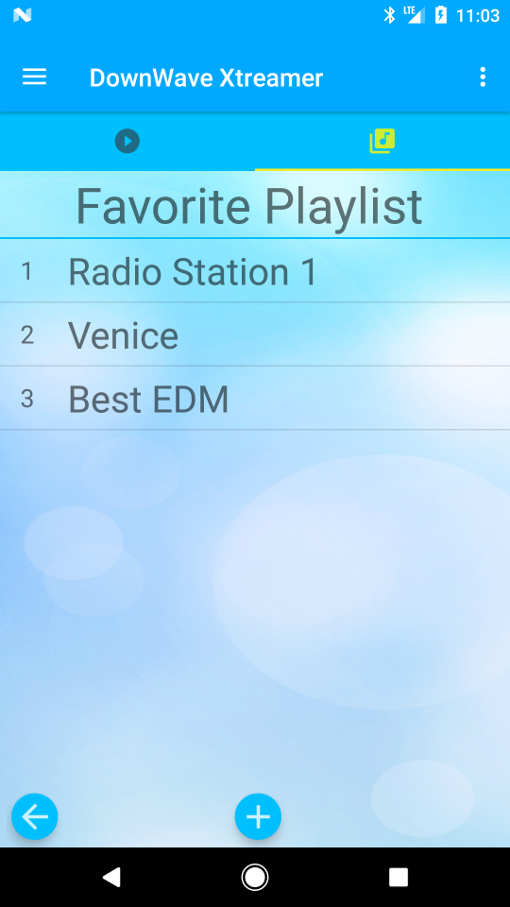
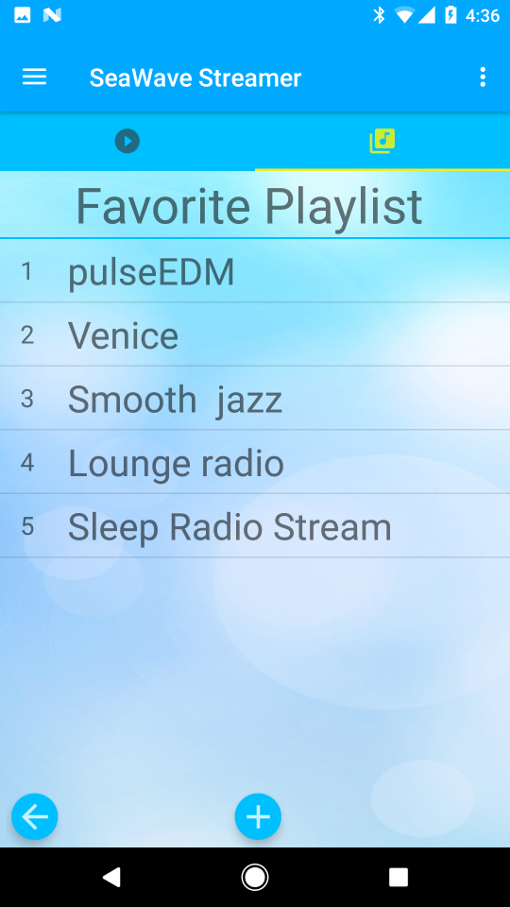
update screenshots

diff --git a/index.html b/index.html
@@ -84,7 +84,7 @@
 
                     <!--Header Extras-->
                     
-                    <div class='googleplaystorebadge'align="middle" ><a href="https://play.google.com/store/apps/details?id=cs499app.cs499mobileapp&hl=en" target="_blank"><img src="images/phoneOverlay/google-play-badge.png" width=220</></a> </div>
+                    <div class='googleplaystorebadge'align="middle" ><a href="https://play.google.com/store/apps/details?id=cs499app.seawavestreamer" target="_blank"><img src="images/phoneOverlay/google-play-badge.png" width=220</></a> </div>
                     
                     
 
@@ -132,7 +132,7 @@
                                 <div class="tp-caption   tp-resizeme tp-svg-layer" id="slide-30-layer-3" data-x="['left','left','left','left']" data-hoffset="['0','0','0','0']" data-y="['top','top','top','top']" data-voffset="['60','60','60','60']" data-width="48" data-height="48" data-whitespace="nowrap" data-type="svg" data-svg_src="js/plugins/revolution/assets/images/ic_play_circle_filled_24px.svg" data-svg_idle="sc:transparent;sw:0;sda:0;sdo:0;" data-responsive_offset="on" data-frames='[{"delay":"+100","speed":500,"frame":"0","from":"x:50px;opacity:0;","to":"o:1;","ease":"Power4.easeOut"},{"delay":"wait","speed":300,"frame":"999","to":"opacity:0;","ease":"Power3.easeInOut"}]' data-margintop="[0,0,0,0]" data-marginright="[0,0,0,0]" data-marginbottom="[0,0,0,0]" data-marginleft="[0,0,0,0]" data-textAlign="['inherit','inherit','inherit','inherit']" data-paddingtop="[0,0,0,0]" data-paddingright="[0,0,0,0]" data-paddingbottom="[0,0,0,0]" data-paddingleft="[0,0,0,0]" style="z-index: 6; min-width: 48px; max-width: 48px; max-width: 48px; max-width: 48px; color: rgba(255,255,255,1);"> </div>
 
                                 <!-- LAYER NR. 3 -->
-                                <div class="tp-caption   tp-resizeme" id="slide-30-layer-4" data-x="['left','left','left','left']" data-hoffset="['60','60','60','60']" data-y="['top','top','top','top']" data-voffset="['60','60','60','60']" data-width="['201','201','160','160']" data-height="none" data-whitespace="normal" data-type="text" data-responsive_offset="on" data-frames='[{"delay":"+100","speed":500,"frame":"0","from":"x:50px;opacity:0;","to":"o:1;","ease":"Power4.easeOut"},{"delay":"wait","speed":300,"frame":"999","to":"opacity:0;","ease":"Power3.easeInOut"}]' data-margintop="[0,0,0,0]" data-marginright="[0,0,0,0]" data-marginbottom="[0,0,0,0]" data-marginleft="[0,0,0,0]" data-textAlign="['inherit','inherit','inherit','inherit']" data-paddingtop="[0,0,0,0]" data-paddingright="[0,0,0,0]" data-paddingbottom="[0,0,0,0]" data-paddingleft="[0,0,0,0]" style="z-index: 7; min-width: 201px; max-width: 201px; white-space: normal; font-size: 16px; line-height: 22px; font-weight: 500; color: rgba(255,255,255,1);font-family:Poppins;">Provides Internet Radio Streaming capability and allows the recording your favorite station for later replay </div>
+                                <div class="tp-caption   tp-resizeme" id="slide-30-layer-4" data-x="['left','left','left','left']" data-hoffset="['60','60','60','60']" data-y="['top','top','top','top']" data-voffset="['60','60','60','60']" data-width="['201','201','160','160']" data-height="none" data-whitespace="normal" data-type="text" data-responsive_offset="on" data-frames='[{"delay":"+100","speed":500,"frame":"0","from":"x:50px;opacity:0;","to":"o:1;","ease":"Power4.easeOut"},{"delay":"wait","speed":300,"frame":"999","to":"opacity:0;","ease":"Power3.easeInOut"}]' data-margintop="[0,0,0,0]" data-marginright="[0,0,0,0]" data-marginbottom="[0,0,0,0]" data-marginleft="[0,0,0,0]" data-textAlign="['inherit','inherit','inherit','inherit']" data-paddingtop="[0,0,0,0]" data-paddingright="[0,0,0,0]" data-paddingbottom="[0,0,0,0]" data-paddingleft="[0,0,0,0]" style="z-index: 7; min-width: 201px; max-width: 201px; white-space: normal; font-size: 16px; line-height: 22px; font-weight: 500; color: rgba(255,255,255,1);font-family:Poppins;">Provides Internet Radio Streaming capability through HTTP Protocol </div>
 
                                 <!-- LAYER NR. 4 -->
                                 <div class="tp-caption tp-shape tp-shapewrapper  tp-resizeme" id="slide-30-layer-5" data-x="['left','left','left','left']" data-hoffset="['0','0','0','0']" data-y="['top','top','top','top']" data-voffset="['45','45','45','45']" data-width="['270','270','210','210']" data-height="3" data-whitespace="nowrap" data-type="shape" data-responsive_offset="on" data-frames='[{"delay":"+0","speed":750,"frame":"0","from":"x:[100%];opacity:1;","mask":"x:0px;y:0;s:inherit;e:inherit;","to":"o:1;","ease":"Power3.easeInOut"},{"delay":"wait","speed":300,"frame":"999","to":"opacity:0;","ease":"Power3.easeInOut"}]' data-margintop="[0,0,0,0]" data-marginright="[0,0,0,0]" data-marginbottom="[0,0,0,0]" data-marginleft="[0,0,0,0]" data-textAlign="['inherit','inherit','inherit','inherit']" data-paddingtop="[0,0,0,0]" data-paddingright="[0,0,0,0]" data-paddingbottom="[0,0,0,0]" data-paddingleft="[0,0,0,0]" style="z-index: 8;background-color:rgba(255,255,255,1);"> </div>
